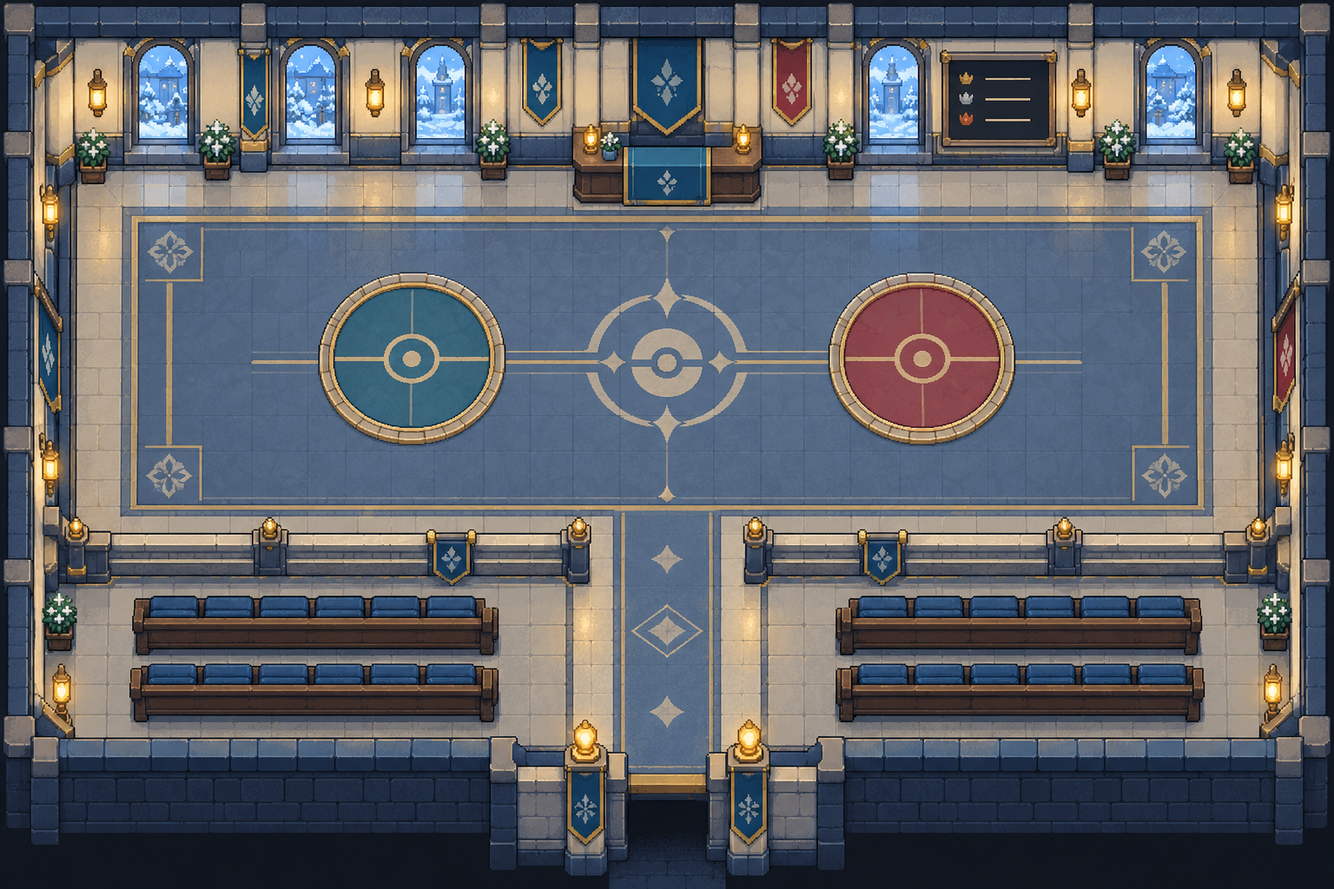
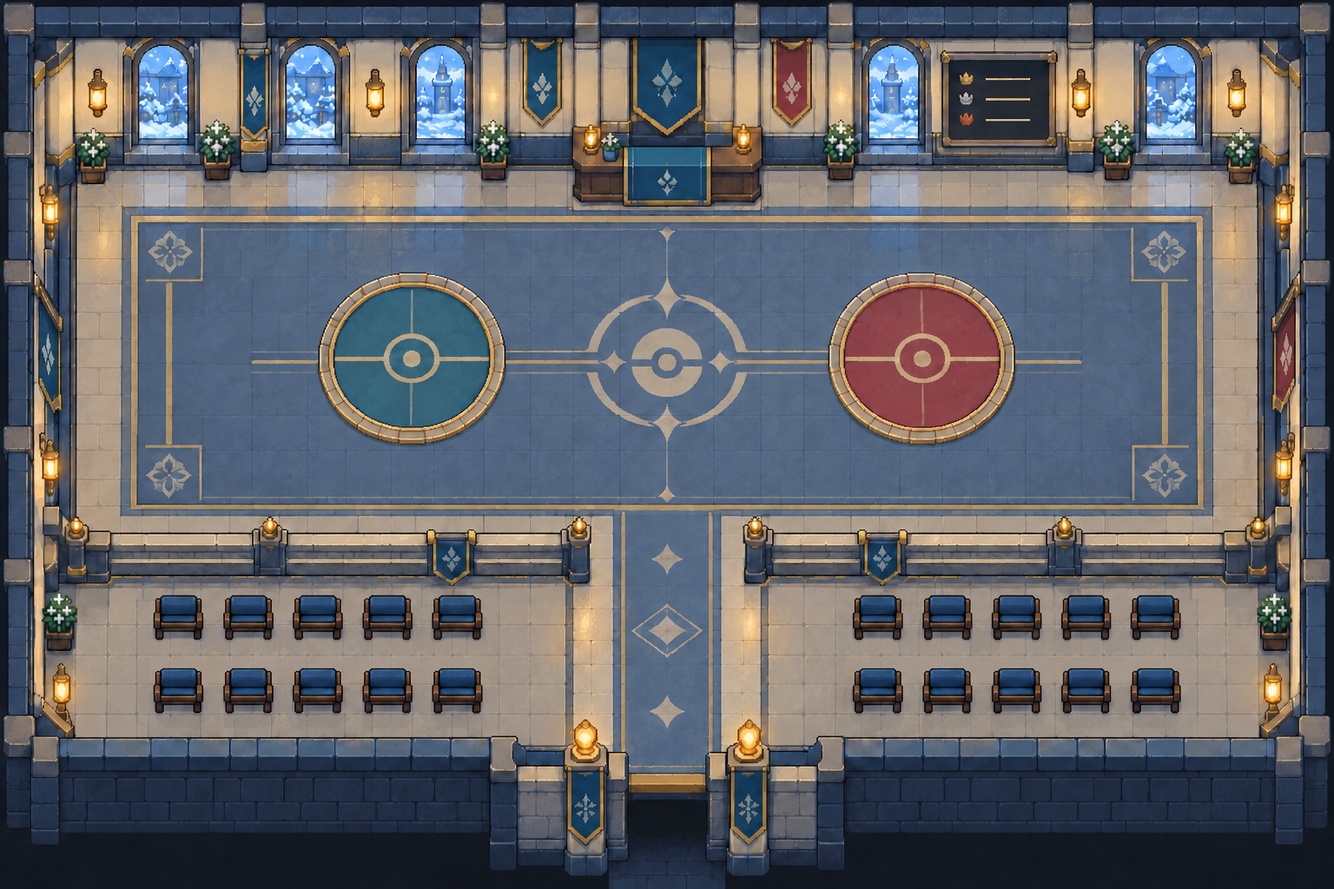
fix: refine battle club scenery and separate hall menus

diff --git a/src/components/whitepeak/WhitepeakClubPanel.vue b/src/components/whitepeak/WhitepeakClubPanel.vue
@@ -1,8 +1,7 @@
 <template>
  <div class="club-backdrop" @pointerdown.self="$emit('close')" @keydown.stop="keyboard" @keyup.stop>
   <section ref="panel" class="club-panel" :class="{casino:tab==='roulette'}" role="dialog" aria-modal="true" aria-labelledby="club-title" data-whitepeak-panel>
-   <header><span class="club-emblem" aria-hidden="true">{{ tab==='roulette'?'♧':'⚔' }}</span><div><small>BLANCHECIME</small><h2 id="club-title">{{ tab==='roulette'?'La table des neiges':'La maison des combats' }}</h2></div><button ref="close" aria-label="Fermer" @click="$emit('close')">×</button></header>
-   <nav v-if="tab!=='roulette'" aria-label="Maison des combats"><button :aria-pressed="tab==='duel'" @click="$emit('tab','duel')">Organiser / rejoindre</button><button :aria-pressed="tab==='board'" @click="action('board')">Classement</button></nav>
+   <header><span class="club-emblem" aria-hidden="true">{{ tab==='roulette'?'♧':'⚔' }}</span><div><small>BLANCHECIME</small><h2 id="club-title">{{ tab==='roulette'?'La table des neiges':tab==='board'?'Classement':tab==='watch'?'Regarder le duel':duel?.phase==='waiting'?'Combat préparé':'Organiser' }}</h2></div><button ref="close" aria-label="Fermer" @click="$emit('close')">×</button></header>
    <div class="club-body">
     <template v-if="tab==='roulette'">
      <div class="roulette-top"><roulette-wheel :state="roulette" :motion="motion"/><div class="roulette-info"><span class="phase-chip">{{ phaseLabel }}</span><h3>{{ roulette?.phase==='result'?`Le ${roulette.result} est sorti.`:roulette?.phase==='spinning'?'Les jeux sont faits.':'Faites vos jeux.' }}</h3><p>Le même tirage pour toute la salle.</p><b class="countdown" aria-live="off">{{ seconds }} s</b><p class="balance">Porte-monnaie <strong>{{ money(balance) }} ₽</strong></p></div></div>
@@ -24,23 +23,28 @@
       <form class="duel-form" @submit.prevent="action('create',config)">
        <fieldset><legend>Règles de combat</legend><label>Niveau de tous les Pokémon<select v-model="config.level" data-duel-level><option :value="null">Libre · niveaux actuels</option><option v-for="level in [25,50,75,100]" :key="level" :value="level">Tous au niveau {{ level }}</option></select></label><label class="check"><input v-model="config.uniqueItems" type="checkbox">Objets uniques <small>Chaque objet tenu une seule fois par équipe.</small></label></fieldset>
        <fieldset><legend>Mises facultatives</legend><label>Pokédollars par joueur<input v-model.number="config.money" data-duel-money type="number" inputmode="numeric" min="0" max="1000000" step="100"></label><label class="check"><input v-model="config.pokemonStake" data-duel-pokemon-stake type="checkbox">Un Pokémon par joueur <small>Équipe ou PC · le vainqueur conserve le sien et reçoit celui de l’adversaire.</small></label></fieldset>
-       <p class="club-help">L’équipe est prête et soignée pour ce duel. Niveaux, PV, PP, statuts et objets de ton Aventure restent intacts. Le sac n’est pas utilisable pendant le combat.</p><button class="primary" data-create-duel :disabled="busy||!connected" type="submit">Créer ce duel</button>
+       <p class="club-help">L’équipe est prête et soignée pour ce duel. Niveaux, PV, PP, statuts et objets de ton Aventure restent intacts. Le sac n’est pas utilisable pendant le combat.</p><button class="primary" data-create-duel :disabled="busy||!connected" type="submit">Organiser</button>
       </form>
      </template>
      <template v-else>
-      <p class="phase-chip">{{ duelPhase }}</p><div class="rule-summary"><b>{{ duel.config.level?`Niveau ${duel.config.level} pour tous`:'Niveaux libres' }}</b><span>{{ duel.config.uniqueItems?'Objets tenus uniques':'Objets tenus libres' }}</span><span>{{ duel.config.money?`${money(duel.config.money)} ₽ par dresseur`:'Sans mise d’argent' }}</span><span v-if="duel.config.pokemonStake">Un Pokémon en jeu</span></div>
-      <div class="duel-players"><article v-for="(p,i) in duel.participants" :key="i" :class="{ready:p?.confirmed}"><small>SOCLE {{ i===0?'BLEU':'ROUGE' }}</small><h3>{{ p?.username||'Place libre' }}</h3><template v-if="p?.pokemon"><button class="pokemon-offer" data-club-inspect @click="inspect(p.pokemon)"><pokemon-portrait :src="sprite(p.pokemon)"/><span><strong>{{ p.pokemon.name }}</strong><small>Niv. {{ p.pokemon.level }} · {{ p.pokemon.heldItemName||'Sans objet' }}</small><potential-star :value="p.pokemon.potential"/></span><span class="inspect-hint">Voir la fiche</span></button></template><p v-else class="club-help">{{ duel.config.pokemonStake&&p?'Pokémon à choisir':'Monte sur ce socle pour participer.' }}</p><span v-if="p?.confirmed" class="confirmed">✓ Mise et duel acceptés</span></article></div>
-      <p v-if="duel.phase==='waiting'" class="club-help">Les deux joueurs doivent monter sur les socles, au centre de la salle. Tu peux quitter un socle en marchant avant l’arrivée du second joueur.</p>
+      <p v-if="duel.phase!=='waiting'" class="phase-chip">{{ duelPhase }}</p><div class="rule-summary"><b>{{ duel.config.level?`Niveau ${duel.config.level} pour tous`:'Niveaux libres' }}</b><span>{{ duel.config.uniqueItems?'Objets tenus uniques':'Objets tenus libres' }}</span><span>{{ duel.config.money?`${money(duel.config.money)} ₽ par dresseur`:'Sans mise d’argent' }}</span><span v-if="duel.config.pokemonStake">Un Pokémon en jeu</span></div>
+      <div v-if="duel.phase==='review'" class="duel-players"><article v-for="(p,i) in duel.participants" :key="i" :class="{ready:p?.confirmed}"><small>SOCLE {{ i===0?'BLEU':'ROUGE' }}</small><h3>{{ p?.username||'Place libre' }}</h3><template v-if="p?.pokemon"><button class="pokemon-offer" data-club-inspect @click="inspect(p.pokemon)"><pokemon-portrait :src="sprite(p.pokemon)"/><span><strong>{{ p.pokemon.name }}</strong><small>Niv. {{ p.pokemon.level }} · {{ p.pokemon.heldItemName||'Sans objet' }}</small><potential-star :value="p.pokemon.potential"/></span><span class="inspect-hint">Voir la fiche</span></button></template><p v-else class="club-help">{{ duel.config.pokemonStake&&p?'Pokémon à choisir':'Monte sur ce socle pour participer.' }}</p><span v-if="p?.confirmed" class="confirmed">✓ Mise et duel acceptés</span></article></div>
+      <section v-if="duel.phase==='waiting'" class="prepared-duel" data-prepared-duel>
+       <p>{{ duel.hostId===userId?'Rejoins le socle bleu ou rouge, puis attends ton adversaire.':'Un combat est déjà préparé. Rejoins un socle libre pour y participer.' }}</p>
+       <p v-if="duel.placementDeadline" class="placement-countdown" role="status">{{ duel.hostId===userId?'À toi de te placer':'Placement de l’organisateur' }} · {{ placementSeconds }} s</p>
+       <p v-else class="club-help">L’organisateur est en place. Un adversaire peut rejoindre l’autre socle.</p>
+       <ul><li v-for="(p,i) in duel.participants" :key="i"><span :class="i?'red-seat':'blue-seat'">●</span> Socle {{ i?'rouge':'bleu' }} · <b>{{ p?.username||'Libre' }}</b></li></ul>
+      </section>
       <template v-if="duel.phase==='review'&&duel.you>=0&&duel.config.pokemonStake">
        <h3>Choisis le Pokémon que tu engages</h3><div class="pokemon-filter"><label>Emplacement<select v-model="box"><option value="team">Mon équipe</option><option v-for="n in duel.inventory?.boxCount||8" :key="n" :value="n-1">Boîte {{ n }}</option></select></label><label>Chercher<input v-model="query" type="search" placeholder="Nom du Pokémon"></label></div>
        <div class="pokemon-grid"><article v-for="p in candidates" :key="p.uuid" :class="{chosen:ownPokemon?.uuid===p.uuid}"><button :data-stake-pokemon="p.uuid" :disabled="busy||!!p.unavailableReason" @click="action('offer',{pokemonUuid:p.uuid})"><pokemon-portrait :src="sprite(p)"/><b>{{ p.name }}</b><span>N. {{ p.level }} <potential-star :value="p.potential"/></span><small v-if="p.unavailableReason">{{ p.unavailableReason }}</small></button><button class="detail-button" :aria-label="`Fiche de ${p.name}`" @click="inspect(p)">Fiche</button></article><p v-if="!candidates.length">Aucun Pokémon à cet emplacement.</p></div>
       </template>
       <p v-if="duel.phase==='review'" class="wager-warning">Relis la fiche du Pokémon adverse avant d’accepter. Une déconnexion ou un abandon pendant le duel donne la victoire à l’adversaire. Une inscription annulée ne coûte rien ; une égalité rend les mises.</p>
-      <button v-if="duel.canWatch" class="primary" data-watch-duel :disabled="busy" @click="action('watch')">Regarder depuis les tribunes</button>
+      <button v-if="duel.canWatch&&tab==='watch'" class="primary" data-watch-duel :disabled="busy" @click="action('watch')">Regarder depuis les tribunes</button>
      </template>
     </template>
    </div>
-   <p v-if="error||duel?.error" class="club-error" role="alert">{{ error||duel.error }}</p>
+   <p v-if="error||(tab!=='board'&&duel?.error)" class="club-error" role="alert">{{ error||duel.error }}</p>
    <footer><template v-if="tab==='roulette'"><span>{{ choiceName(betChoice) }} · {{ money(betAmount||0) }} ₽</span><button class="primary" data-place-bet :disabled="!canBet" @click="placeBet">Miser</button></template><template v-else-if="tab!=='board'&&duel&&['waiting','review'].includes(duel.phase)"><button v-if="duel.you>=0||duel.hostId===userId" :disabled="busy" data-cancel-duel @click="cancel">Refuser / annuler</button><button v-if="duel.phase==='review'&&duel.you>=0" class="primary" data-confirm-duel :disabled="busy||!!duel.error||duel.participants[duel.you]?.confirmed||duel.config.pokemonStake&&duel.participants.some(p=>!p?.pokemon)" @click="action('confirm')">{{ duel.participants[duel.you]?.confirmed?'Adversaire attendu…':'Accepter les mises et combattre' }}</button></template><button v-else @click="$emit('close')">Retour dans la salle</button></footer>
   </section>
   <pokemon-details v-if="detail" class="club-details" :pokemon="detail" :position="1" :total="1" read-only context-label="POKÉMON ENGAGÉ" footer-label="Vérifie les caractéristiques avant d’accepter le duel" @close="detail=null"/>
@@ -59,8 +63,9 @@ export default{
  props:{tab:String,roulette:Object,duel:Object,balance:Number,userId:Number,busy:Boolean,error:String,connected:Boolean,motion:Boolean,rows:{type:Array,default:()=>[]}},
  data:()=>({config:{level:null,uniqueItems:false,money:0,pokemonStake:false},betAmount:100,betChoice:{kind:'red'},box:'team',query:'',detail:null,clock:Date.now(),pendingBet:null}),
  computed:{outside:()=>outside,numbers:()=>Array.from({length:37},(_,i)=>i),phaseLabel(){return{betting:'Mises ouvertes',spinning:'Tirage en cours',result:'Résultat partagé'}[this.roulette?.phase]||'La table se prépare';},seconds(){const s=this.roulette;if(!s)return 0;return Math.max(0,Math.ceil(((s.phase==='betting'?s.closesAt:s.phase==='spinning'?s.resultAt:s.nextAt)-this.clock-(s.serverOffset||0))/1000));},
+ placementSeconds(){return Math.max(0,Math.ceil((this.duel.placementDeadline-this.clock-(this.duel.serverOffset||0))/1000));},
  canBet(){return this.connected&&!this.busy&&this.roulette?.phase==='betting'&&this.seconds>0&&Number.isSafeInteger(this.betAmount)&&this.betAmount>=100&&this.betAmount<=Math.min(this.balance,1000000);},
- duelPhase(){return{waiting:'Deux socles · deux dresseurs',review:'Vérifier les mises',starting:'Inscription du duel…',battle:'Duel en cours',settling:'Sauvegarde du résultat…'}[this.duel?.phase]||'';},
+ duelPhase(){return{waiting:'Combat préparé',review:'Vérifier les mises',starting:'Inscription du duel…',battle:'Duel en cours',settling:'Sauvegarde du résultat…'}[this.duel?.phase]||'';},
  candidates(){const i=this.duel?.inventory;const all=this.box==='team'?i?.team||[]:(i?.entries||[]).filter(e=>e.box===Number(this.box)).map(e=>e.pokemon);return all.filter(p=>String(p.name).toLocaleLowerCase().includes(this.query.toLocaleLowerCase()));},
  ownPokemon(){return this.duel?.participants[this.duel.you]?.pokemon;},resultText(){const r=this.duel?.result;if(!r)return'';const winner=this.duel.participants.find(p=>p?.userId===r.winnerId);return winner?`${winner.username} remporte le duel.`:'Le duel est terminé. Les mises ont été rendues.';}},
  mounted(){this.previousFocus=document.activeElement;this.$refs.close.focus();this.timer=setInterval(()=>{this.clock=Date.now();},250);},beforeDestroy(){clearInterval(this.timer);if(this.previousFocus?.isConnected)this.previousFocus.focus({preventScroll:true});},
@@ -74,7 +79,7 @@ export default{
 </script>
 <style scoped>
 .club-backdrop{position:fixed;inset:0;z-index:3400;display:grid;place-items:center;padding:12px;background:var(--journal-backdrop);color:var(--journal-ink);font:14px/1.5 var(--journal-font)}
-.club-panel{box-sizing:border-box;width:min(890px,100%);max-height:calc(100dvh - 24px);display:flex;flex-direction:column;overflow:hidden;border:2px solid var(--journal-border);border-radius:17px;background:var(--journal-paper);box-shadow:var(--journal-shadow)}.club-panel *{box-sizing:border-box}.club-panel header{display:flex;align-items:center;gap:13px;padding:16px 20px;border-bottom:1px solid var(--journal-border);background:var(--journal-card);flex:none}.club-emblem{display:grid;place-items:center;width:49px;height:49px;border:1px solid var(--journal-border);border-radius:12px;font:27px Georgia,serif;color:var(--journal-accent);background:var(--journal-soft)}header>div{flex:1;min-width:0}header small{font-size:9px;letter-spacing:.16em;color:var(--journal-muted)}h2{font:500 27px Georgia,serif;color:var(--journal-heading);margin:2px 0;overflow-wrap:anywhere}h3{font-size:16px;margin:0 0 10px;color:var(--journal-heading)}button,input,select{font:inherit;color:inherit;border:1px solid var(--journal-border);border-radius:8px;min-height:44px;padding:9px 12px;background:var(--journal-card);min-width:0}input,select{font-size:16px;width:100%}button{cursor:pointer}button:disabled{opacity:.5;cursor:default}button:focus-visible,input:focus-visible,select:focus-visible{outline:3px solid var(--journal-accent);outline-offset:2px}header>button{width:44px;font-size:24px;flex:none;background:var(--journal-soft)!important;color:var(--journal-ink)!important}nav{display:flex;border-bottom:1px solid var(--journal-border);padding:8px 16px;gap:8px}nav button{flex:1}nav [aria-pressed=true],.chosen{background:var(--journal-selected);border-color:var(--journal-accent)}.club-body{padding:18px 22px;overflow:auto;min-height:0;overscroll-behavior:contain}.club-help{color:var(--journal-muted);font-size:12px;margin:8px 0 16px}.primary{background:var(--journal-accent);color:var(--journal-on-accent);font-weight:700}.duel-form{display:grid;gap:16px}.duel-form fieldset{margin:0;padding:15px;border:1px solid var(--journal-border);border-radius:11px;display:grid;grid-template-columns:1fr 1fr;align-items:start;gap:18px}.duel-form legend{font-weight:700;color:var(--journal-heading);padding:0 6px}label{display:grid;gap:6px;font-size:12px;font-weight:600}label.check{grid-template-columns:22px 1fr;align-items:center;gap:7px}label.check input{width:20px;height:20px;min-height:20px;accent-color:var(--journal-accent)}label.check small{grid-column:2;color:var(--journal-muted);font-weight:400}.rule-summary{display:flex;flex-wrap:wrap;gap:7px;margin:10px 0 18px}.rule-summary>*{font-size:12px;padding:5px 9px;background:var(--journal-soft);border:1px solid var(--journal-border);border-radius:7px}.phase-chip{display:inline-block;padding:4px 10px;border-radius:5px;background:var(--journal-soft);color:var(--journal-accent);font-size:11px;font-weight:700;margin:0 0 8px}.duel-players{display:grid;grid-template-columns:1fr 1fr;gap:12px;margin-bottom:17px}.duel-players>article{padding:14px;border:1px solid var(--journal-border);border-top:3px solid #4b92a5;border-radius:9px;background:var(--journal-card)}.duel-players>article:last-child{border-top-color:#b96970}.duel-players>article.ready{box-shadow:inset 0 0 0 1px var(--journal-accent)}.duel-players>article>small{font-size:9px;letter-spacing:.12em;color:var(--journal-muted)}.pokemon-offer{width:100%;display:flex;align-items:center;gap:9px;text-align:left;padding:6px}.pokemon-offer .pokemon-portrait{width:62px;height:62px;flex:none}.pokemon-offer>span{display:flex;flex-direction:column;gap:3px}.pokemon-offer small{font-size:11px}.inspect-hint{margin-left:auto;font-size:10px;color:var(--journal-muted)}.confirmed{font-size:11px;color:var(--journal-accent)}.pokemon-filter{display:grid;grid-template-columns:1fr 1fr;gap:10px;margin:12px 0}.pokemon-grid{display:grid;grid-template-columns:repeat(4,minmax(0,1fr));gap:8px;max-height:340px;overflow:auto;padding:3px;overscroll-behavior:contain}.pokemon-grid article{border:1px solid var(--journal-border);border-radius:9px;background:var(--journal-card);overflow:hidden}.pokemon-grid article>button:first-child{border:none;background:transparent;display:flex;flex-direction:column;align-items:center;width:100%;font-size:12px;padding:6px}.pokemon-grid .pokemon-portrait{width:65px;height:65px}.pokemon-grid button>span{display:flex;align-items:center;gap:5px}.pokemon-grid .detail-button{width:100%;font-size:11px;min-height:44px;border-width:1px 0 0;border-radius:0}.pokemon-grid small{font-size:9px;color:var(--journal-danger)}.wager-warning{padding:12px;background:var(--journal-soft);border-left:3px solid #b19261;font-size:12px}.club-error{flex:none;padding:10px 20px;margin:0;background:var(--journal-card);color:var(--journal-danger);font-size:12px;border-top:1px solid var(--journal-border)}footer{display:flex;justify-content:space-between;align-items:center;gap:10px;padding:12px 18px;border-top:1px solid var(--journal-border);background:var(--journal-card);flex:none}footer .primary{margin-left:auto}footer span{font-size:12px}.club-details{z-index:3500!important}.rank-head,.rank-list li{display:grid;grid-template-columns:1fr 95px 70px;gap:12px;padding:11px 10px;font-size:12px}.rank-head{font-weight:700;background:var(--journal-soft)}.rank-list{margin:0;padding:0;list-style:none}.rank-list li{border-bottom:1px solid var(--journal-border)}.rank-list li>span:first-child{overflow-wrap:anywhere}.rank-list li>strong{text-align:right}.own{background:var(--journal-selected)}.previous-result{padding:11px;margin-bottom:15px;border:1px solid var(--journal-border);border-radius:8px;background:var(--journal-soft)}.roulette-top{display:grid;grid-template-columns:minmax(0,1fr) minmax(0,1fr);gap:20px;align-items:center}.roulette-info h3{font:25px Georgia,serif}.roulette-info p{color:var(--journal-muted);font-size:12px}.countdown{font-size:31px;font-variant-numeric:tabular-nums;color:var(--journal-heading)}.balance strong{display:block;color:var(--journal-heading);font-size:20px}.roulette-ticket{display:flex;gap:18px;align-items:center;padding:13px;margin:18px 0;background:var(--journal-soft);border:1px solid var(--journal-border);border-radius:8px}.roulette-ticket label{flex:1}.roulette-ticket p{font-size:11px;flex:1;color:var(--journal-muted)}.input-money{display:flex;align-items:center;gap:7px}.outside-bets{display:grid;grid-template-columns:repeat(3,1fr);gap:7px;margin-bottom:12px}.outside-bets button{display:flex;align-items:center;justify-content:space-between}.outside-bets small{opacity:.7;font-size:10px}.outside-bets .red{border-left:5px solid #b94748}.outside-bets .black{border-left:5px solid #233448}.outside-bets [aria-pressed=true]{box-shadow:inset 0 0 0 2px var(--journal-accent);background:var(--journal-selected)}.number-bets{display:grid;grid-template-columns:repeat(13,minmax(0,1fr));gap:4px}.number-bets button{color:#fff7e8;border-color:#d6c28b66;padding:4px;font-size:12px}.number-bets button.chosen{outline:3px solid #d6b975;outline-offset:0;z-index:1}.number-bets button:first-child{grid-row:1/4;grid-column:1}.tickets{border-top:1px solid var(--journal-border);padding-top:14px}.tickets h3{display:flex;justify-content:space-between}.tickets h3 small{font-weight:400;color:var(--journal-muted)}.tickets>div{display:flex;gap:8px;align-items:center;padding:7px 9px;border-bottom:1px solid var(--journal-border);font-size:11px}.tickets>div>b{flex:1;overflow-wrap:anywhere}.tickets>div>strong{color:var(--journal-accent)}
+.club-panel{box-sizing:border-box;width:min(890px,100%);max-height:calc(100dvh - 24px);display:flex;flex-direction:column;overflow:hidden;border:2px solid var(--journal-border);border-radius:17px;background:var(--journal-paper);box-shadow:var(--journal-shadow)}.club-panel *{box-sizing:border-box}.club-panel header{display:flex;align-items:center;gap:13px;padding:16px 20px;border-bottom:1px solid var(--journal-border);background:var(--journal-card);flex:none}.club-emblem{display:grid;place-items:center;width:49px;height:49px;border:1px solid var(--journal-border);border-radius:12px;font:27px Georgia,serif;color:var(--journal-accent);background:var(--journal-soft)}header>div{flex:1;min-width:0}header small{font-size:9px;letter-spacing:.16em;color:var(--journal-muted)}h2{font:500 27px Georgia,serif;color:var(--journal-heading);margin:2px 0;overflow-wrap:anywhere}h3{font-size:16px;margin:0 0 10px;color:var(--journal-heading)}button,input,select{font:inherit;color:inherit;border:1px solid var(--journal-border);border-radius:8px;min-height:44px;padding:9px 12px;background:var(--journal-card);min-width:0}input,select{font-size:16px;width:100%}button{cursor:pointer}button:disabled{opacity:.5;cursor:default}button:focus-visible,input:focus-visible,select:focus-visible{outline:3px solid var(--journal-accent);outline-offset:2px}header>button{width:44px;font-size:24px;flex:none;background:var(--journal-soft)!important;color:var(--journal-ink)!important}nav{display:flex;border-bottom:1px solid var(--journal-border);padding:8px 16px;gap:8px}nav button{flex:1}nav [aria-pressed=true],.chosen{background:var(--journal-selected);border-color:var(--journal-accent)}.club-body{padding:18px 22px;overflow:auto;min-height:0;overscroll-behavior:contain}.club-help{color:var(--journal-muted);font-size:12px;margin:8px 0 16px}.primary{background:var(--journal-accent);color:var(--journal-on-accent);font-weight:700}.duel-form{display:grid;gap:16px}.duel-form fieldset{margin:0;padding:15px;border:1px solid var(--journal-border);border-radius:11px;display:grid;grid-template-columns:1fr 1fr;align-items:start;gap:18px}.duel-form legend{font-weight:700;color:var(--journal-heading);padding:0 6px}label{display:grid;gap:6px;font-size:12px;font-weight:600}label.check{grid-template-columns:22px 1fr;align-items:center;gap:7px}label.check input{width:20px;height:20px;min-height:20px;accent-color:var(--journal-accent)}label.check small{grid-column:2;color:var(--journal-muted);font-weight:400}.rule-summary{display:flex;flex-wrap:wrap;gap:7px;margin:10px 0 18px}.rule-summary>*{font-size:12px;padding:5px 9px;background:var(--journal-soft);border:1px solid var(--journal-border);border-radius:7px}.phase-chip{display:inline-block;padding:4px 10px;border-radius:5px;background:var(--journal-soft);color:var(--journal-accent);font-size:11px;font-weight:700;margin:0 0 8px}.duel-players{display:grid;grid-template-columns:1fr 1fr;gap:12px;margin-bottom:17px}.duel-players>article{padding:14px;border:1px solid var(--journal-border);border-top:3px solid #4b92a5;border-radius:9px;background:var(--journal-card)}.duel-players>article:last-child{border-top-color:#b96970}.duel-players>article.ready{box-shadow:inset 0 0 0 1px var(--journal-accent)}.duel-players>article>small{font-size:9px;letter-spacing:.12em;color:var(--journal-muted)}.pokemon-offer{width:100%;display:flex;align-items:center;gap:9px;text-align:left;padding:6px}.pokemon-offer .pokemon-portrait{width:62px;height:62px;flex:none}.pokemon-offer>span{display:flex;flex-direction:column;gap:3px}.pokemon-offer small{font-size:11px}.inspect-hint{margin-left:auto;font-size:10px;color:var(--journal-muted)}.confirmed{font-size:11px;color:var(--journal-accent)}.pokemon-filter{display:grid;grid-template-columns:1fr 1fr;gap:10px;margin:12px 0}.pokemon-grid{display:grid;grid-template-columns:repeat(4,minmax(0,1fr));gap:8px;max-height:340px;overflow:auto;padding:3px;overscroll-behavior:contain}.pokemon-grid article{border:1px solid var(--journal-border);border-radius:9px;background:var(--journal-card);overflow:hidden}.pokemon-grid article>button:first-child{border:none;background:transparent;display:flex;flex-direction:column;align-items:center;width:100%;font-size:12px;padding:6px}.pokemon-grid .pokemon-portrait{width:65px;height:65px}.pokemon-grid button>span{display:flex;align-items:center;gap:5px}.pokemon-grid .detail-button{width:100%;font-size:11px;min-height:44px;border-width:1px 0 0;border-radius:0}.pokemon-grid small{font-size:9px;color:var(--journal-danger)}.wager-warning{padding:12px;background:var(--journal-soft);border-left:3px solid #b19261;font-size:12px}.club-error{flex:none;padding:10px 20px;margin:0;background:var(--journal-card);color:var(--journal-danger);font-size:12px;border-top:1px solid var(--journal-border)}footer{display:flex;justify-content:space-between;align-items:center;gap:10px;padding:12px 18px;border-top:1px solid var(--journal-border);background:var(--journal-card);flex:none}footer .primary{margin-left:auto}footer span{font-size:12px}.club-details{z-index:3500!important}.rank-head,.rank-list li{display:grid;grid-template-columns:1fr 95px 70px;gap:12px;padding:11px 10px;font-size:12px}.rank-head{font-weight:700;background:var(--journal-soft)}.rank-list{margin:0;padding:0;list-style:none}.rank-list li{border-bottom:1px solid var(--journal-border)}.rank-list li>span:first-child{overflow-wrap:anywhere}.rank-list li>strong{text-align:right}.own{background:var(--journal-selected)}.prepared-duel{padding:16px;border:1px solid var(--journal-border);border-radius:10px;background:var(--journal-card)}.prepared-duel p{font-size:13px;line-height:1.6}.prepared-duel ul{list-style:none;padding:0;display:grid;gap:9px;font-size:13px}.blue-seat{color:#4b92a5}.red-seat{color:#b96970}.placement-countdown{font-weight:700;color:var(--journal-accent);font-variant-numeric:tabular-nums}.previous-result{padding:11px;margin-bottom:15px;border:1px solid var(--journal-border);border-radius:8px;background:var(--journal-soft)}.roulette-top{display:grid;grid-template-columns:minmax(0,1fr) minmax(0,1fr);gap:20px;align-items:center}.roulette-info h3{font:25px Georgia,serif}.roulette-info p{color:var(--journal-muted);font-size:12px}.countdown{font-size:31px;font-variant-numeric:tabular-nums;color:var(--journal-heading)}.balance strong{display:block;color:var(--journal-heading);font-size:20px}.roulette-ticket{display:flex;gap:18px;align-items:center;padding:13px;margin:18px 0;background:var(--journal-soft);border:1px solid var(--journal-border);border-radius:8px}.roulette-ticket label{flex:1}.roulette-ticket p{font-size:11px;flex:1;color:var(--journal-muted)}.input-money{display:flex;align-items:center;gap:7px}.outside-bets{display:grid;grid-template-columns:repeat(3,1fr);gap:7px;margin-bottom:12px}.outside-bets button{display:flex;align-items:center;justify-content:space-between}.outside-bets small{opacity:.7;font-size:10px}.outside-bets .red{border-left:5px solid #b94748}.outside-bets .black{border-left:5px solid #233448}.outside-bets [aria-pressed=true]{box-shadow:inset 0 0 0 2px var(--journal-accent);background:var(--journal-selected)}.number-bets{display:grid;grid-template-columns:repeat(13,minmax(0,1fr));gap:4px}.number-bets button{color:#fff7e8;border-color:#d6c28b66;padding:4px;font-size:12px}.number-bets button.chosen{outline:3px solid #d6b975;outline-offset:0;z-index:1}.number-bets button:first-child{grid-row:1/4;grid-column:1}.tickets{border-top:1px solid var(--journal-border);padding-top:14px}.tickets h3{display:flex;justify-content:space-between}.tickets h3 small{font-weight:400;color:var(--journal-muted)}.tickets>div{display:flex;gap:8px;align-items:center;padding:7px 9px;border-bottom:1px solid var(--journal-border);font-size:11px}.tickets>div>b{flex:1;overflow-wrap:anywhere}.tickets>div>strong{color:var(--journal-accent)}
 @media(max-width:600px){.club-backdrop{padding:7px}.club-panel{max-height:calc(100dvh - 14px)}.club-panel header{padding:11px 13px;gap:9px}.club-emblem{width:38px;height:42px}.club-body{padding:13px}h2{font-size:23px}nav{padding:7px}.duel-form fieldset{grid-template-columns:1fr;gap:12px;padding:12px}.duel-players{grid-template-columns:1fr}.pokemon-grid{grid-template-columns:repeat(3,minmax(0,1fr))}.pokemon-filter{grid-template-columns:1fr 1fr}.roulette-top{gap:10px}.roulette-info h3{font-size:20px}.roulette-info p{font-size:11px}.roulette-ticket{gap:9px;padding:10px}.number-bets{grid-template-columns:repeat(7,minmax(0,1fr))}.number-bets button:first-child{grid-row:auto;grid-column:auto}.outside-bets button{font-size:12px;padding:8px}footer{padding:10px;flex-wrap:wrap}footer>button{flex:1}footer>span{width:100%}.rank-head,.rank-list li{grid-template-columns:minmax(0,1fr) 80px 53px;gap:6px;padding-inline:5px;font-size:11px}}
 @media(max-height:480px){.club-panel header{padding-block:7px}h2{font-size:21px}.club-body{padding-block:10px}.roulette-wheel{max-width:150px}footer{padding-block:7px}}
 </style>

diff --git a/src/components/UserMap.vue b/src/components/UserMap.vue
@@ -22,7 +22,7 @@
       <expedition-trainer-offer v-if="trainerOffer && !battle && driftState?.phase==='exploration'" :offer="trainerOffer" :busy="trainerBusy" :error="trainerError" @close="trainerOffer=null" @challenge="challengeTrainer" />
       <whitepeak-club-panel v-if="clubPanel && !battle && !battleResult && !clubWatch" :tab="clubPanel.tab" :roulette="clubRoulette" :duel="clubDuel" :balance="Number(progressionState.money)||0" :user-id="Number(currentUserId)" :busy="clubBusy" :error="clubError" :connected="!!socket?.connected" :motion="preferences.animationsEnabled && !worldWeatherReducedMotion" :rows="clubRows" @close="clubPanel=null" @tab="clubPanel={tab:$event}" @command="clubCommand" />
       <club-spectator v-if="clubWatch" :key="clubWatch.id" :start="clubWatch" :events="clubWatchEvents" :result="clubWatchResult" :mobile="showMobileControls" :preferences="preferences" @close="closeClubWatch" />
-      <button v-if="map==='ville5_maison1' && !battle && !battleResult && !clubWatch && !clubPanel" class="club-room-access" data-club-room-access @pointerdown.stop @click="openClubPanel">{{ clubDuel ? clubDuel.phase==='review'?'Vérifier les mises':clubDuel.phase==='battle'?'Duel en cours · Tribunes':'Duel · Socles disponibles':'Maison des combats' }}</button>
+      <button v-if="map==='ville5_maison1' && !battle && !battleResult && !clubWatch && !clubPanel" class="club-room-access" data-club-room-access @pointerdown.stop @click="openClubPanel">{{ clubDuel&&clubDuel.phase!=='finished' ? clubDuel.phase==='review'?'Vérifier les mises':clubDuel.phase==='battle'?'Duel en cours · Tribunes':'Combat préparé':'Organiser' }}</button>
       <super-tournament-panel v-if="tournamentPanel" :payload="tournamentPanel" :team="teamPokemons" :passives="superTournament.passives" :busy="tournamentBusy" :error="tournamentError" @close="closeTournamentPanel" @register="registerSuperTournament" @abandon="abandonSuperTournament" />
       <tournament-reward-panel v-if="tournamentRewardVisible" :offer="superTournament.reward" :cash="superTournament.cash" :team="superTournament.team" :passives="superTournament.passives" :victory-recovery="superTournament.victoryRecovery" :busy="tournamentBusy" :error="tournamentRewardError" @choose="chooseTournamentReward" @leave="openTournamentAbandon" />
       <battle-overlay
@@ -484,6 +484,7 @@ import BattleOverlay from './battle/BattleOverlay.vue';
 import WhitepeakClubPanel from './whitepeak/WhitepeakClubPanel.vue';
 import ClubSpectator from './whitepeak/ClubSpectator.vue';
 import {drawWhitepeakRoom} from '@/services/whitepeakRoulette';
+import {drawWhitepeakSnow, clipWhitepeakHost} from '@/services/whitepeakScenery';
 import SuperTournamentPanel from './menu/SuperTournamentPanel.vue';
 import TournamentRewardPanel from './menu/TournamentRewardPanel.vue';
 import BattleResultPanel from './battle/BattleResultPanel.vue';
@@ -1785,7 +1786,7 @@ export default {
         let { x, y, progress, moving } = this.pnjWorldPosition(pnj, now);
         const phase=teleport?.name===pnj.name?npcTeleportPose(teleport,now,motion):null;
         if(phase){x=phase.x*32+16;y=phase.y*32+16-phase.lift;moving=false;}
-        context.save();if(phase)context.globalAlpha=phase.alpha;
+        context.save();clipWhitepeakHost(context,this.map,pnj.name);if(phase)context.globalAlpha=phase.alpha;
         if(departure && pnj.name===(departure.actor||'lucie_route2')) {
           const pose=departurePose(departure,now,motion),cx=departure.x*32+16,cy=departure.y*32+34;
           context.globalAlpha=pose.alpha;context.translate(cx,cy+pose.drop);context.rotate(pose.rotation);context.scale(pose.scale,pose.scale);context.translate(-cx,-cy);
@@ -2231,7 +2232,7 @@ export default {
       this.tournamentPanel=null;this.tournamentError='';this.tournamentRewardError='';this.lock=false;
       this.$refs.battleOverlay?.resetBattleUi();this.$nextTick(this.restoreWorldView);
     },
-    openClubPanel(){this.releaseAllMovementKeys();this.closeLegacyPanels();this.clubError='';this.clubPanel={tab:'duel'};},
+    openClubPanel(){this.releaseAllMovementKeys();this.closeLegacyPanels();this.clubError='';this.clubPanel={tab:this.clubDuel?.canWatch?'watch':'duel'};},
     async clubCommand(name,data={},done){
       if(this.clubBusy||!this.socket?.connected)return;this.clubBusy=true;this.clubError='';
       try{const response=await new Promise((resolve,reject)=>this.socket.timeout(10000).emit('whitepeak:'+name,data,(e,r)=>e?reject(new Error('Connexion interrompue. Vérifie la table avant de renouveler une mise.')):resolve(r)));
@@ -2860,6 +2861,7 @@ export default {
       drawVoidTeleporter(c, this.map, this.voidEnding);
       drawVoidJournals(c, this.map, this.voidEnding);
       if(this.map!=='route2')drawMirrorGround(c,this.map,this.mirrorRift,this.mirrorScene,now,mirrorMotion,this.mapImage);
+      if(!document.hidden)drawWhitepeakSnow(c,this.map,now,this.preferences.animationsEnabled&&!this.worldWeatherReducedMotion);
       drawWhitepeakRoom(c,this.map,this.clubRoulette,Date.now()+(this.clubRoulette?.serverOffset||0),this.preferences.animationsEnabled&&!this.worldWeatherReducedMotion);
       drawPokemonComputers(c,this.worldDevices,this.map);
       this.drawPnjs(c, now);
@@ -3472,7 +3474,7 @@ export default {
     this.socket.on('mapWeatherState', state => { this.mapWeather = state; });
     this.socket.on('whitepeak:open',payload=>{this.releaseAllMovementKeys();this.closeLegacyPanels();this.clubError='';this.clubPanel=payload;if(payload.rows)this.clubRows=payload.rows;});
     this.socket.on('whitepeak:roulette',state=>{this.clubRoulette={...state,serverOffset:state.serverNow-Date.now()};});
-    this.socket.on('whitepeak:duel',state=>{const before=this.clubDuel?.phase;this.clubDuel=state;if(state?.phase==='finished'&&state.you>=0&&['starting','battle','settling'].includes(before))this.clubPanel={tab:'duel'};if(state?.phase==='review'&&state.you>=0){this.releaseAllMovementKeys();this.closeLegacyPanels();this.clubPanel={tab:'duel'};}if(['starting','battle','settling'].includes(state?.phase))this.clubPanel=null;});
+    this.socket.on('whitepeak:duel',state=>{const before=this.clubDuel?.phase;this.clubDuel=state?{...state,serverOffset:state.serverNow-Date.now()}:null;if(state?.phase==='finished'&&state.you>=0&&['starting','battle','settling'].includes(before))this.clubPanel={tab:'duel'};if(state?.phase==='review'&&state.you>=0){this.releaseAllMovementKeys();this.closeLegacyPanels();this.clubPanel={tab:'duel'};}if(['starting','battle','settling'].includes(state?.phase))this.clubPanel=null;});
     this.socket.on('whitepeak:wallet',data=>{if(Number.isSafeInteger(data.balance)&&data.balance>=0){this._tournamentWalletEpoch=(this._tournamentWalletEpoch||0)+1;this.$set(this.progressionState,'money',data.balance);}});
     this.socket.on('whitepeak:rouletteResult',data=>{if(data.amount>0)this.interactionNotice=`Roulette : +${Number(data.amount).toLocaleString('fr-FR')} ₽`;});
     this.socket.on('whitepeak:watchStart',payload=>{this.releaseAllMovementKeys();this.closeLegacyPanels();this.clubPanel=null;this.clubWatchEvents=[];this.clubWatchResult=null;this.clubWatch=payload;this.syncWorldMusic();});

diff --git a/src/services/whitepeakScenery.js b/src/services/whitepeakScenery.js
@@ -1,0 +1,29 @@
+// Fixed window masks in the 896×640 room; particles never cover the masonry.
+const nativePanes = [
+  [[153,80],[158,64],[170,53],[183,49],[198,55],[211,69],[216,83],[216,157],[153,157]],
+  [[329,82],[334,64],[345,54],[358,50],[372,55],[385,70],[389,83],[389,157],[329,157]],
+  [[477,81],[482,64],[494,54],[507,50],[521,56],[534,71],[538,84],[538,157],[477,157]],
+  [[1003,82],[1007,66],[1017,55],[1029,51],[1042,56],[1052,71],[1056,85],[1056,157],[1003,157]],
+  [[1324,82],[1329,65],[1340,55],[1352,51],[1366,57],[1376,72],[1380,84],[1380,157],[1324,157]],
+];
+export const WHITEPEAK_PANES = nativePanes.map(points=>points.map(([x,y])=>[x*7/12,y*5/8]));
+const flakes = WHITEPEAK_PANES.flatMap((pane,index)=>{
+  const left=pane[0][0],right=pane[6][0];
+  return Array.from({length:12},(_,n)=>({x:left+(n*.61803398875%1)*(right-left),y:32+(n*17+index*11)%68,
+    phase:n*1.7+index,speed:8+(n%4)*3,size:n%3===0?1.4:.9}));
+});
+export function drawWhitepeakSnow(c,map,now,motion=true){
+  if(map!=='ville5_maison1')return;
+  const t=motion?now/1000:0;
+  c.save();c.beginPath();
+  for(const pane of WHITEPEAK_PANES){pane.forEach(([x,y],i)=>i?c.lineTo(x,y):c.moveTo(x,y));c.closePath();}
+  c.clip();c.fillStyle='#effaff';c.globalAlpha=.85;
+  for(const f of flakes){const y=30+((f.y+t*f.speed)%70),x=f.x+Math.sin(t*.55+f.phase)*2;
+    c.fillRect(Math.round(x),Math.round(y),f.size,f.size);}
+  c.restore();
+}
+export function clipWhitepeakHost(c,map,name){
+  if(map==='ville5_maison1'&&name==='club_host'){
+    c.beginPath();c.rect(0,0,896,113);c.clip();
+  }
+}
